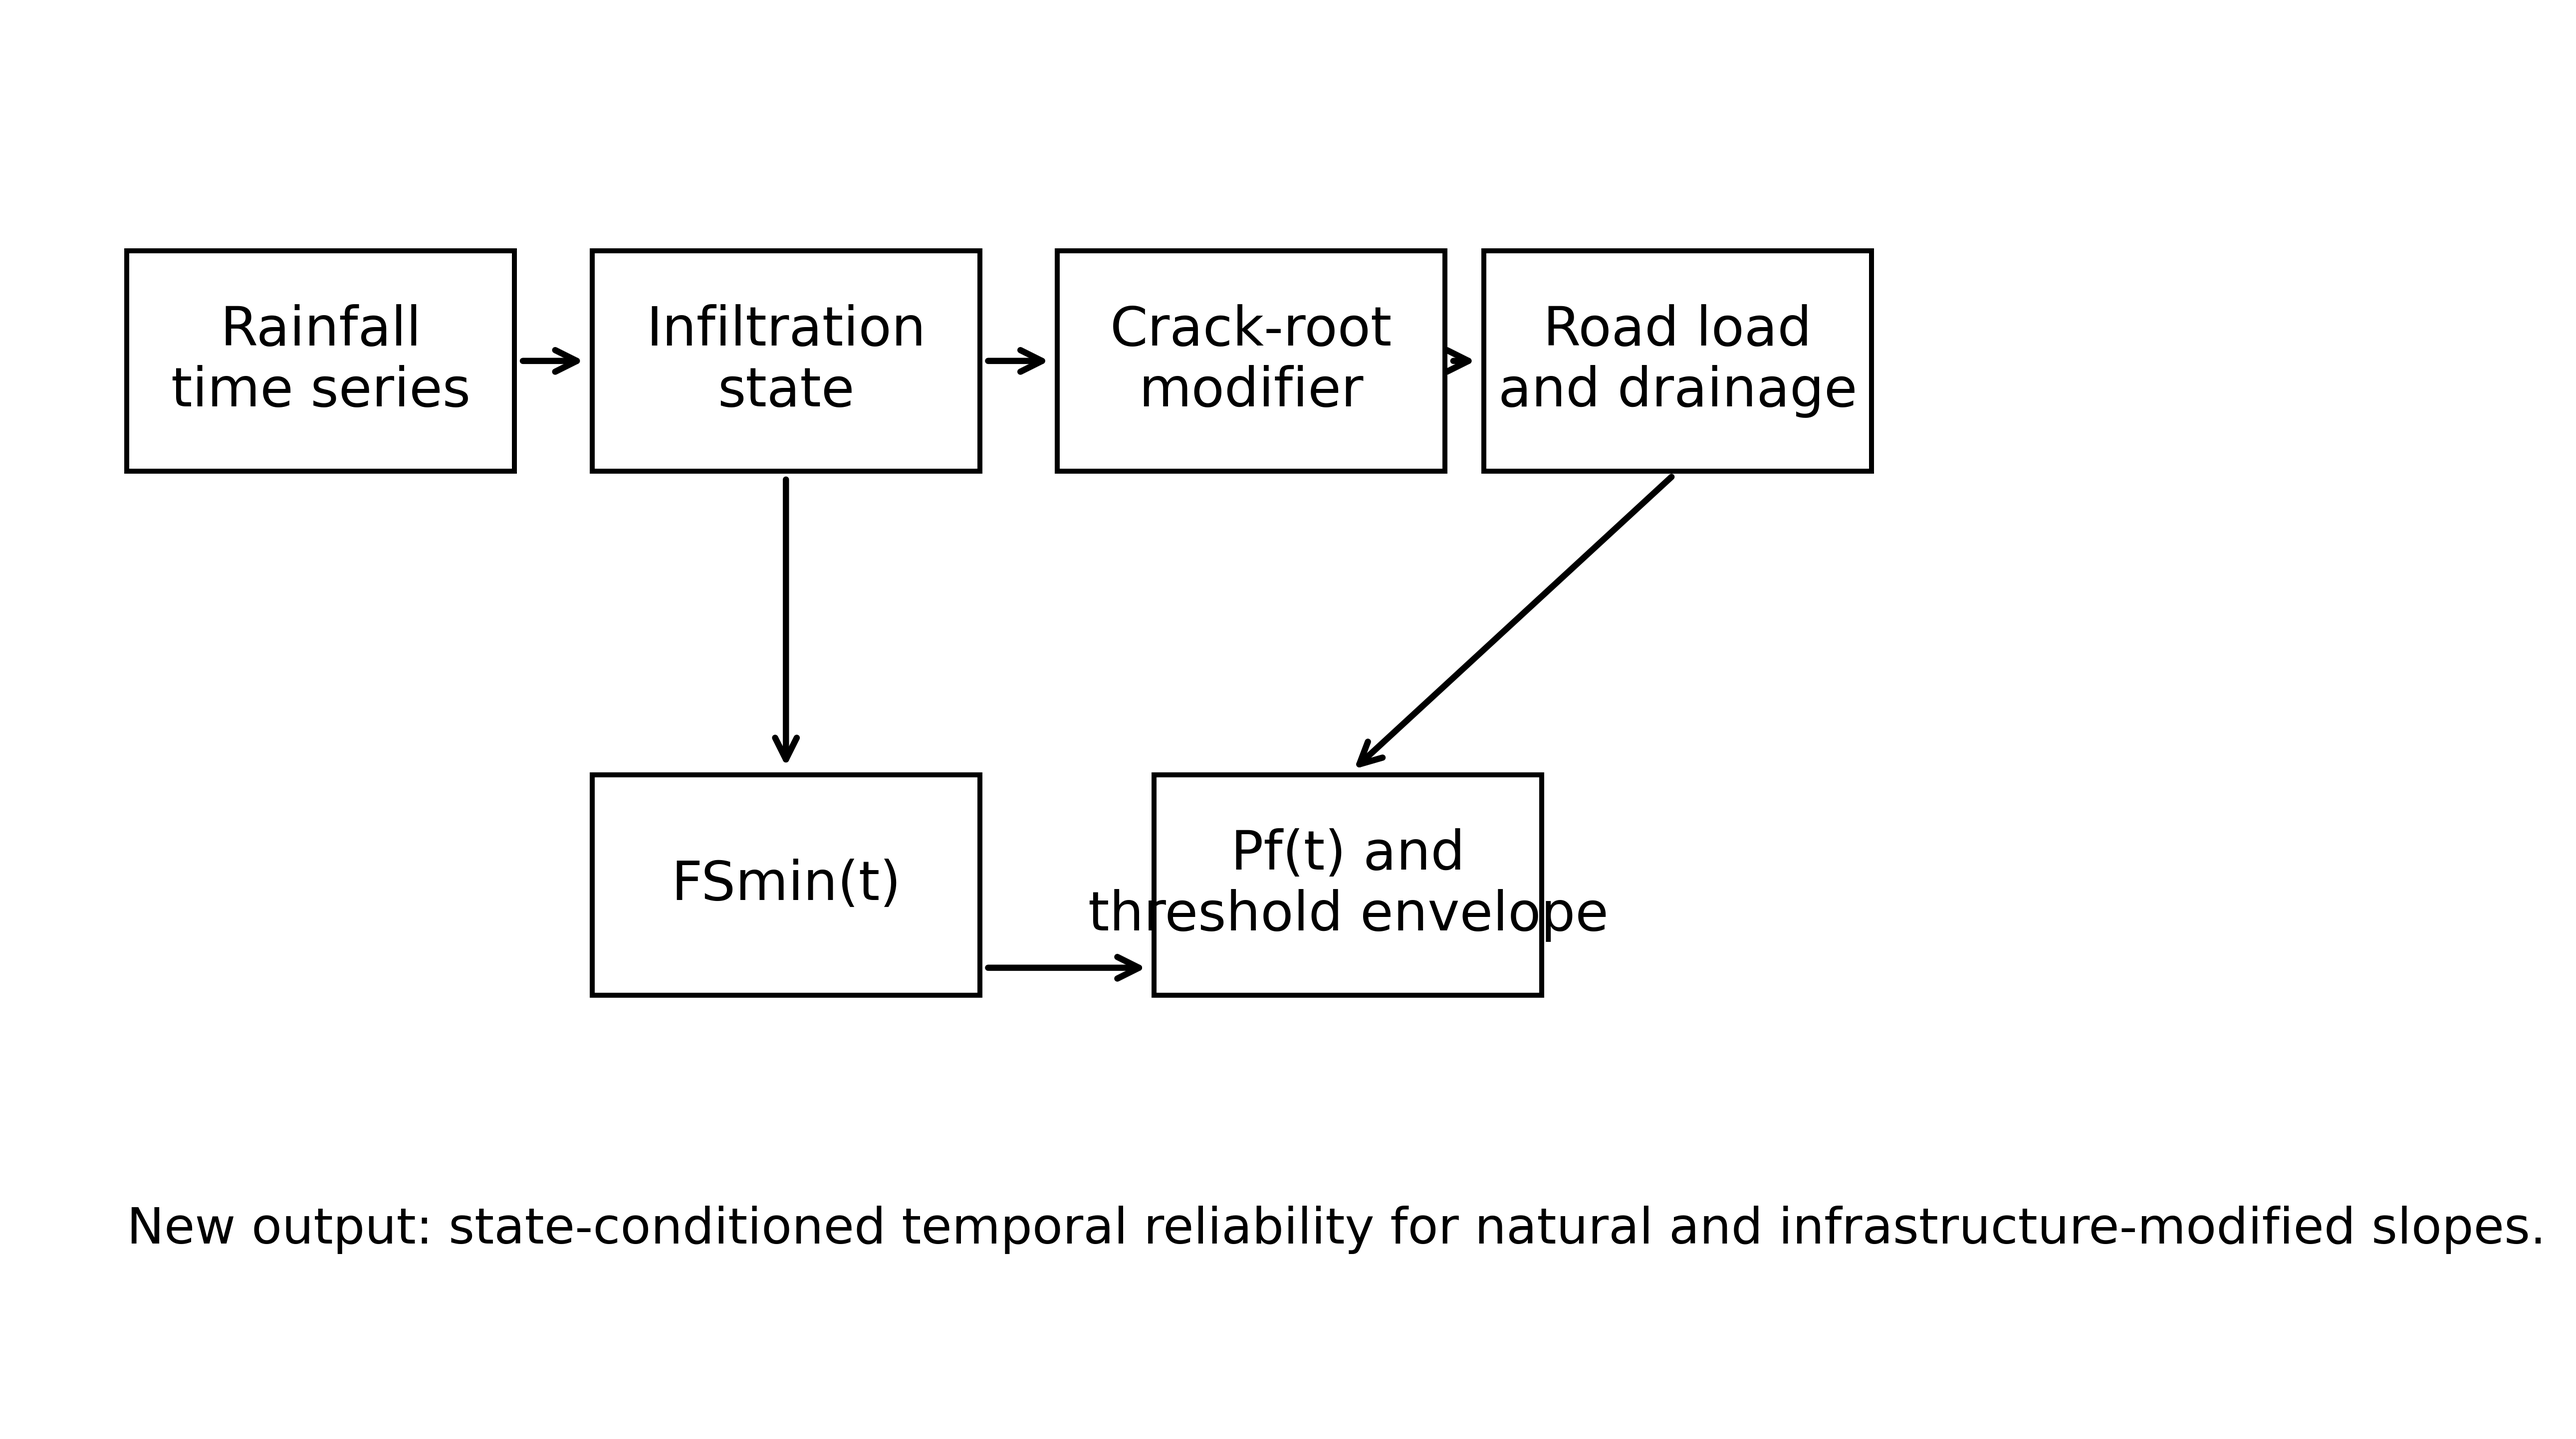
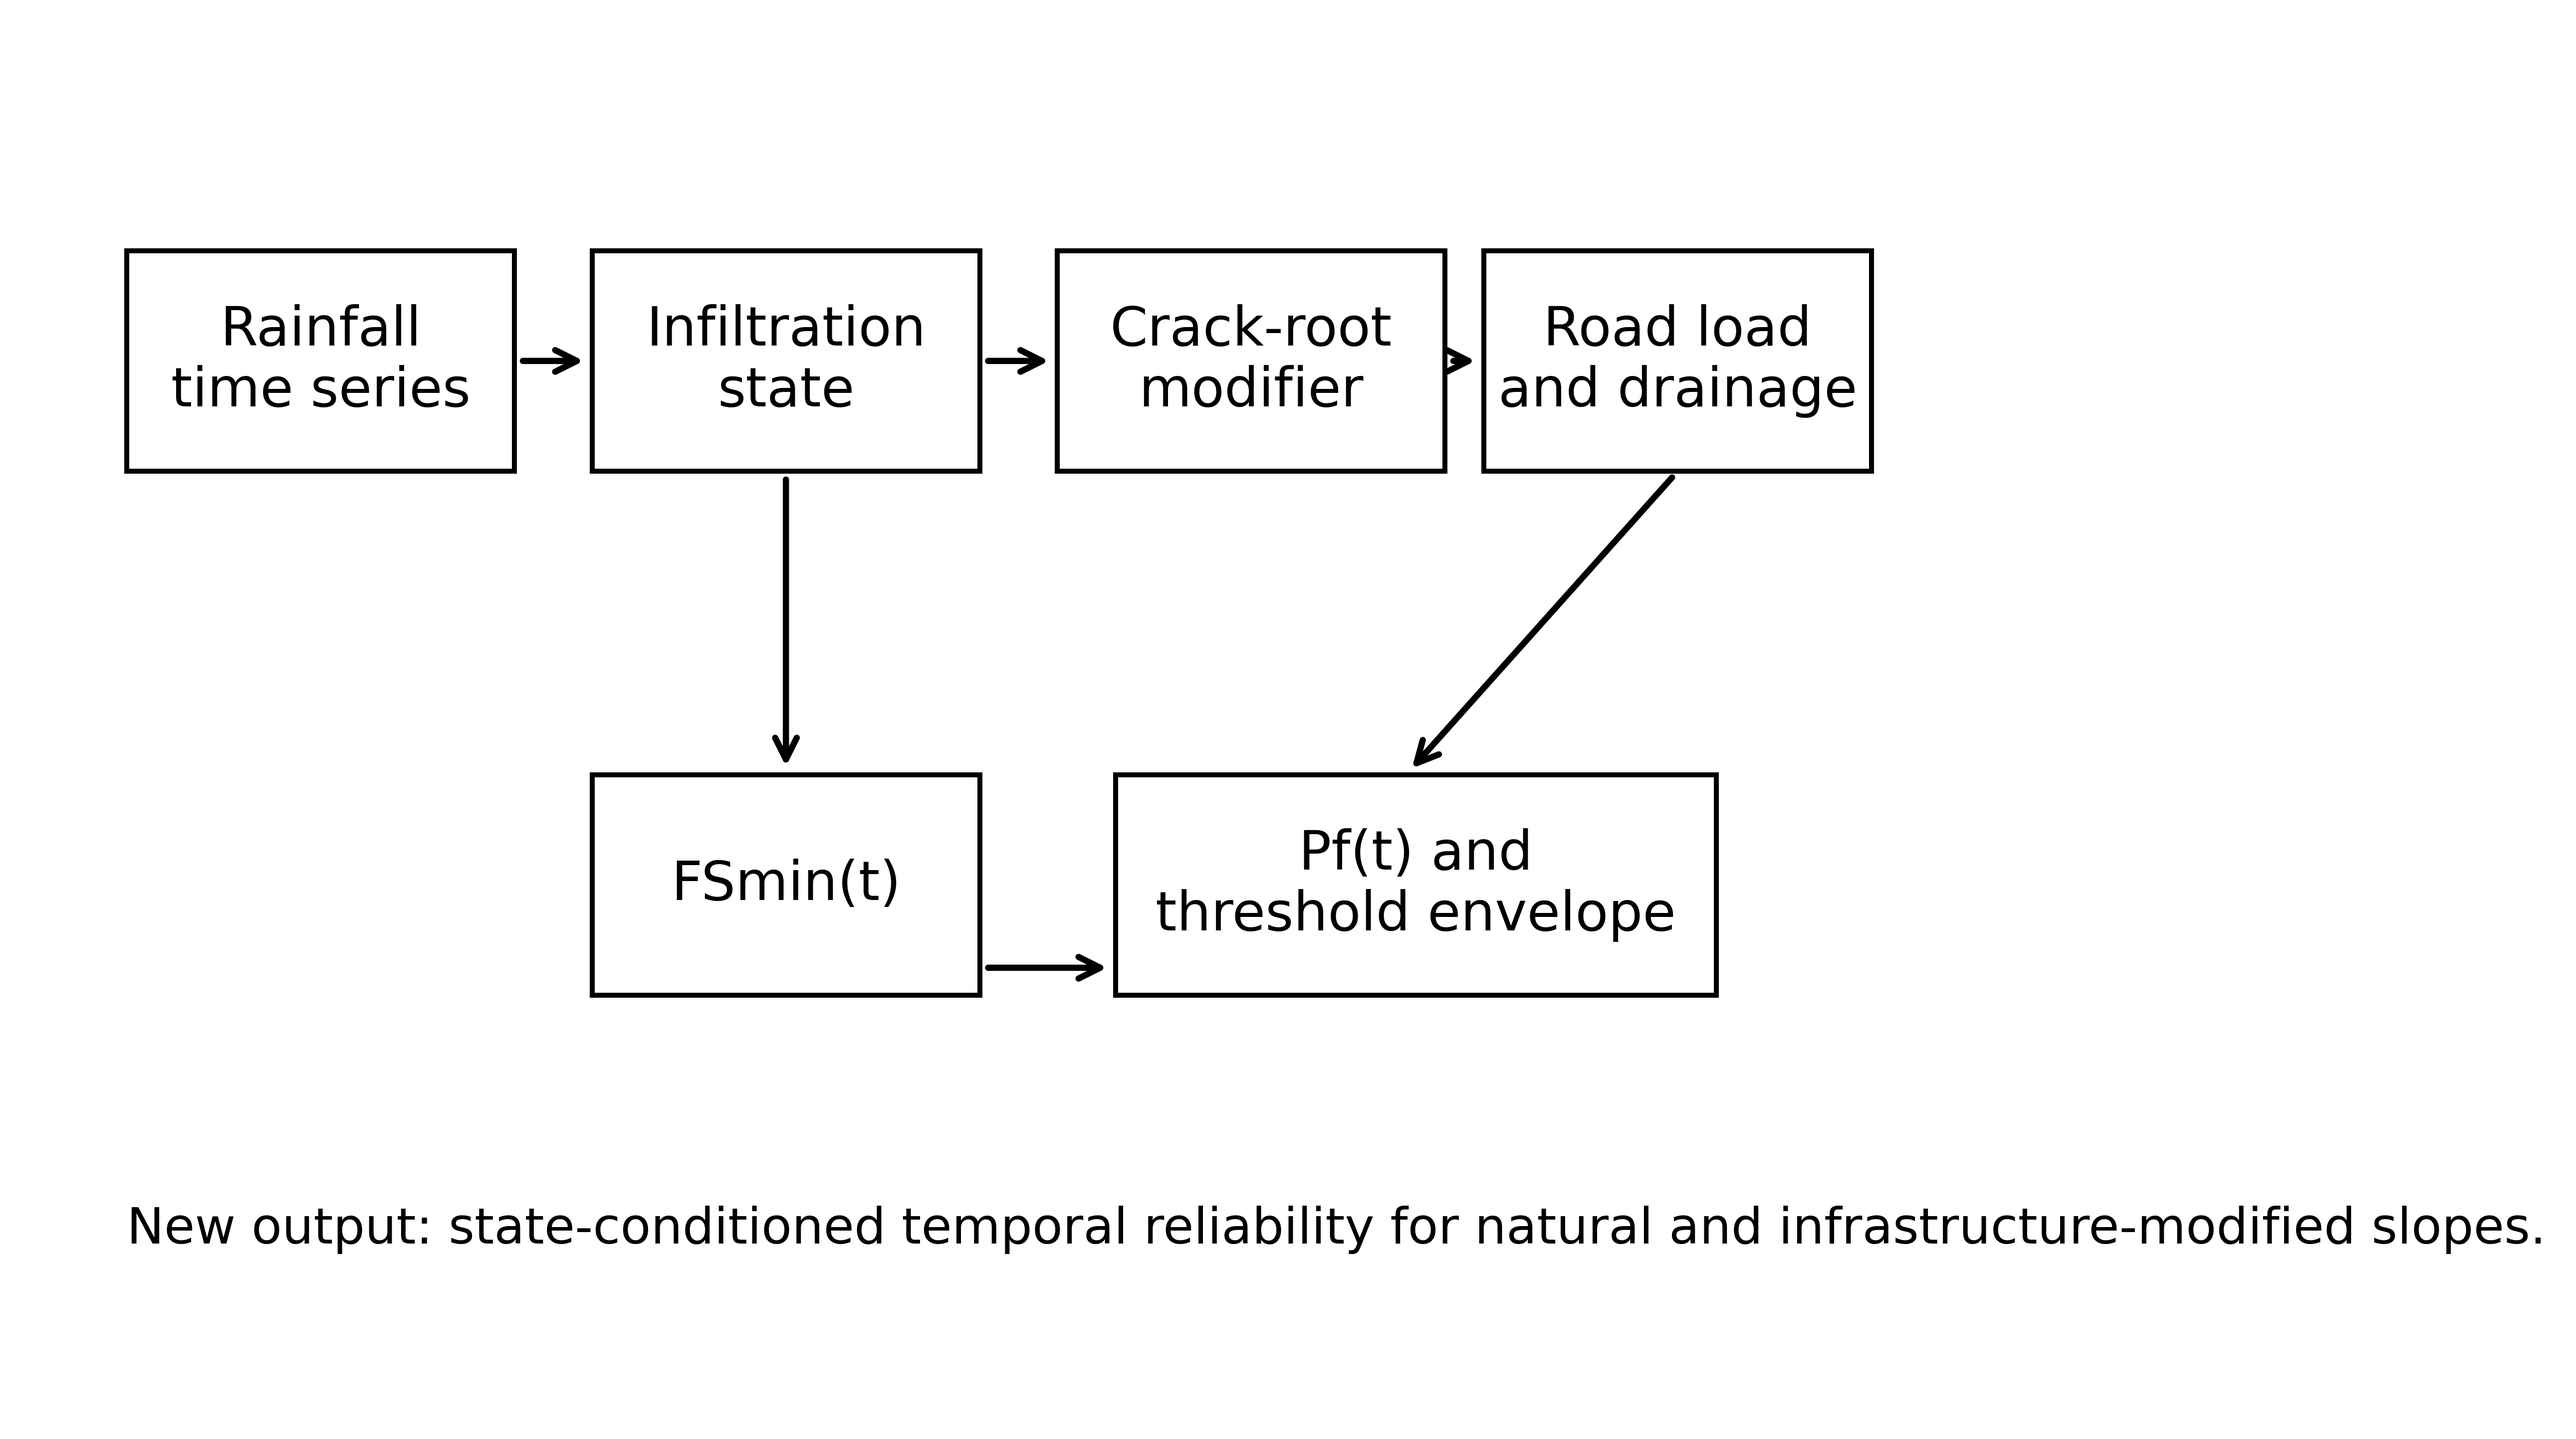
Update AI declaration and workflow figure sources

diff --git a/code/build_bege_manuscript.py b/code/build_bege_manuscript.py
@@ -29,6 +29,7 @@ EMAIL = "gabriel.montufar@up.ac.pa"
 ORCID = "https://orcid.org/0000-0003-3392-3728"
 JOURNAL = "Bulletin of Engineering Geology and the Environment"
 GITHUB_URL = "https://github.com/gabrielmontufar/article-120-slope-state-envelope"
+AI_DECLARATION_119 = "Generative artificial intelligence tools were used to support language editing, organization and formatting. The author reviewed, verified and takes responsibility for the final content."
 
 
 def add_code_to_docx(source: Path, dest: Path) -> None:
@@ -494,10 +495,7 @@ def build_manuscript():
         doc,
         "Author contributions: G.J.M.C. conceived the study, developed the methodology, prepared the numerical demonstration, generated the figures and tables, wrote the manuscript and reviewed the final version.",
     )
-    p(
-        doc,
-        "Declaration of generative AI and AI-assisted technologies: During the preparation of this submission version, a generative AI-assisted coding and editing tool was used to assist with journal-format adaptation, English language restructuring, reproducible calculation preparation and checklist review. The author reviewed and edited the content and takes full responsibility for the submitted manuscript.",
-    )
+    p(doc, f"Use of generative artificial intelligence: {AI_DECLARATION_119}")
 
     heading(doc, "References", 1)
     refs = references()
@@ -583,7 +581,7 @@ def build_declarations():
     heading(doc, "Data Availability", 2)
     p(doc, f"The data used in this study are synthetic and were generated by the reproducible code supplied with the manuscript and mirrored in a public repository: {GITHUB_URL}. The computational package includes the Python script, fixed random seed, CSV outputs, figures and requirements file. No field or personal data were used.")
     heading(doc, "Declaration of Generative AI and AI-Assisted Technologies", 2)
-    p(doc, "During the preparation of this submission version, a generative AI-assisted coding and editing tool was used to assist with journal-format adaptation, English language restructuring, reproducible calculation preparation and checklist review. The author reviewed and edited the content and takes full responsibility for the submitted manuscript.")
+    p(doc, AI_DECLARATION_119)
     heading(doc, "Author Information", 2)
     p(doc, AUTHOR)
     p(doc, AFFIL)

diff --git a/code/slope_state_envelope.py b/code/slope_state_envelope.py
@@ -392,23 +392,23 @@ def make_figures(
     fig, ax = plt.subplots(figsize=(8.6, 5.0))
     ax.axis("off")
     boxes = [
-        (0.05, 0.68, "Rainfall\ntime series"),
-        (0.29, 0.68, "Infiltration\nstate"),
-        (0.53, 0.68, "Crack-root\nmodifier"),
-        (0.75, 0.68, "Road load\nand drainage"),
-        (0.29, 0.30, "FSmin(t)"),
-        (0.58, 0.30, "Pf(t) and\nthreshold envelope"),
+        (0.05, 0.68, 0.20, "Rainfall\ntime series"),
+        (0.29, 0.68, 0.20, "Infiltration\nstate"),
+        (0.53, 0.68, 0.20, "Crack-root\nmodifier"),
+        (0.75, 0.68, 0.20, "Road load\nand drainage"),
+        (0.29, 0.30, 0.20, "FSmin(t)"),
+        (0.56, 0.30, 0.31, "Pf(t) and\nthreshold envelope"),
     ]
-    for x, y, label in boxes:
-        ax.add_patch(plt.Rectangle((x, y), 0.20, 0.16, facecolor="white", edgecolor="black", linewidth=1.2))
-        ax.text(x + 0.10, y + 0.08, label, ha="center", va="center", fontsize=13, color="black")
+    for x, y, w, label in boxes:
+        ax.add_patch(plt.Rectangle((x, y), w, 0.16, facecolor="white", edgecolor="black", linewidth=1.2))
+        ax.text(x + w / 2, y + 0.08, label, ha="center", va="center", fontsize=13, color="black")
     arrows = [
         ((0.25, 0.76), (0.29, 0.76)),
         ((0.49, 0.76), (0.53, 0.76)),
         ((0.73, 0.76), (0.75, 0.76)),
-        ((0.85, 0.68), (0.68, 0.46)),
+        ((0.85, 0.68), (0.71, 0.46)),
         ((0.39, 0.68), (0.39, 0.46)),
-        ((0.49, 0.32), (0.58, 0.32)),
+        ((0.49, 0.32), (0.56, 0.32)),
     ]
     for start, end in arrows:
         ax.annotate("", xy=end, xytext=start, arrowprops=dict(arrowstyle="->", linewidth=1.5, color="black"))
